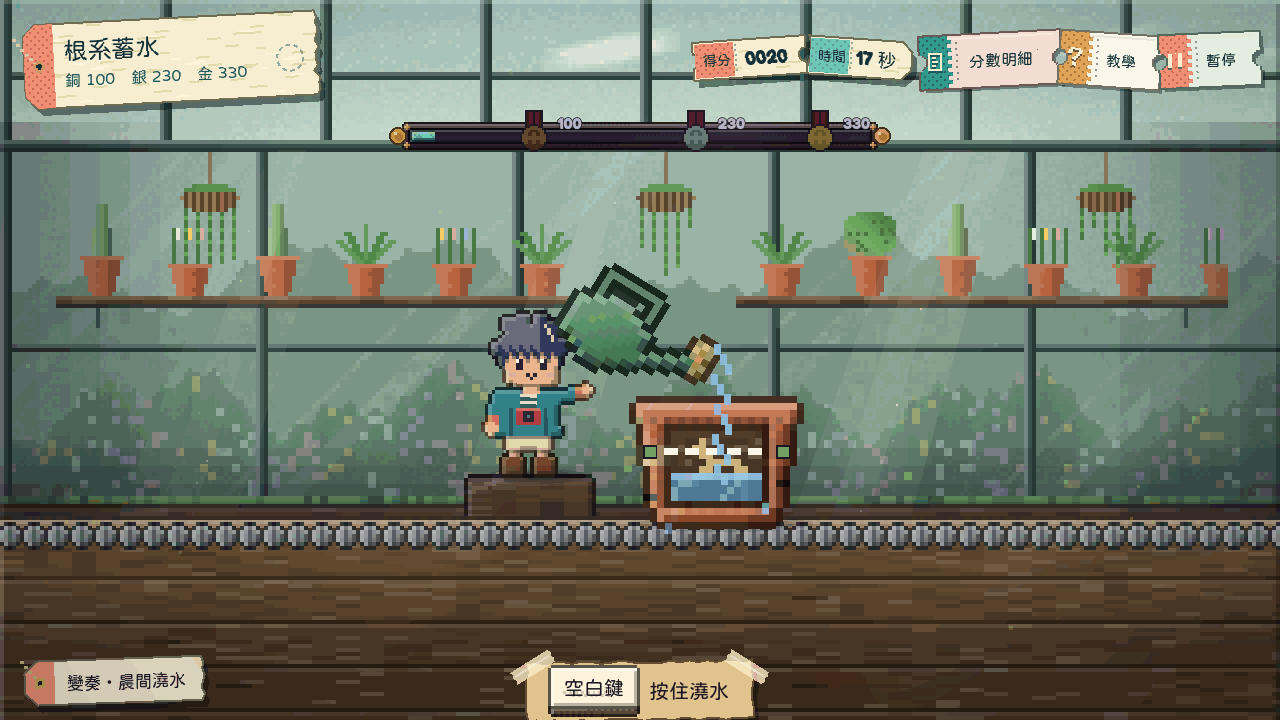
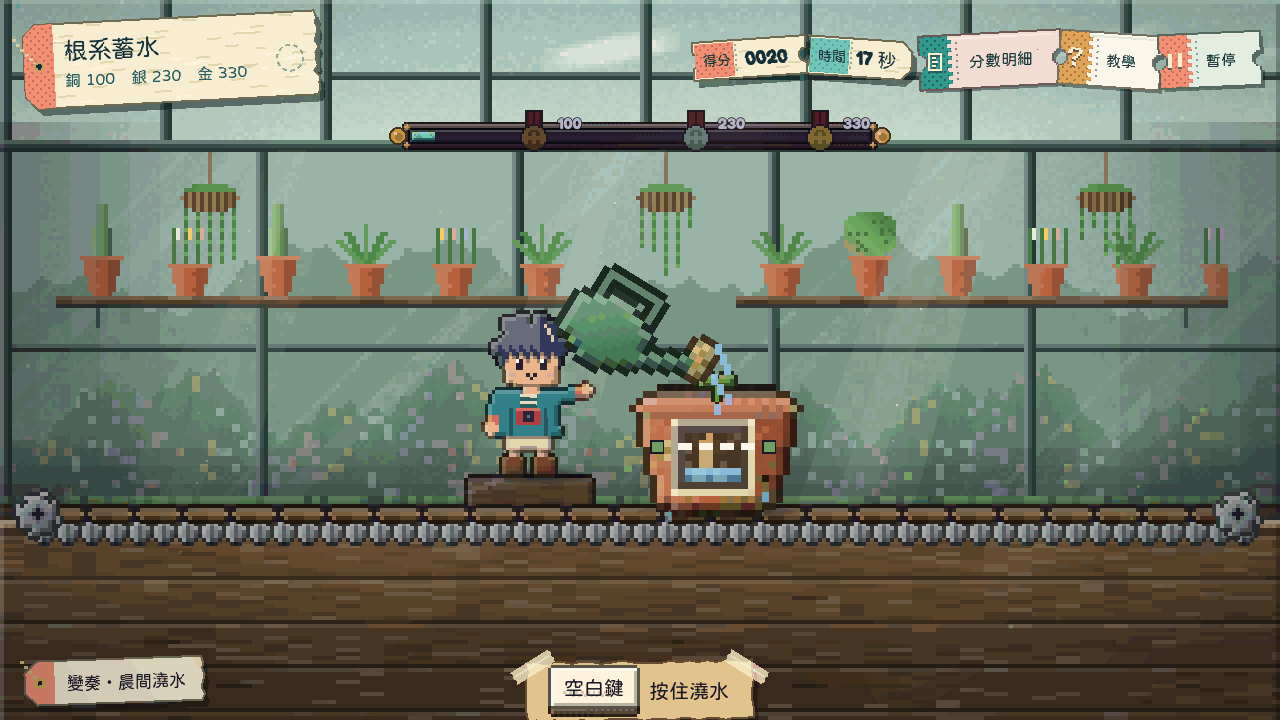
fix: shape the root water pots as rimmed terracotta with a glazed gauge and run them on a slatted conveyor (SG-98)

Changed region(s): [[0.0, 0.5194, 1.0, 0.7639]]

diff --git a/design/02-minigames/catalog.md b/design/02-minigames/catalog.md
@@ -1737,7 +1737,7 @@
 | 操作 | 空白鍵、Enter 或手把 A 鈕、按住畫面：按住澆水，放開停。 |
 | 普通目標 | 替幼苗澆到刻線，拿到銅牌 |
 | 取捨 | 早點放手穩穩拿「差一點」，或盯到最後一刻停在刻線上拚「剛剛好」的連續加分，但多按一下就會滿出來 |
-| 可見回饋 | 盆子側面是一片玻璃，看得到泥土和根；水從盆底往上把泥土染深，水面有一條亮線；盆上有一條粉筆刻線，兩端各伸出一片葉子小旗；停在刻線上跳出「剛剛好！」、根亮起來、盆裡冒出一株新芽，連續剛好再加分；澆不夠跳出「還渴！」；澆太多水從盆口滿出來流成一灘，主角滑一跤、頭下腳上坐進盆裡，只剩靴子露出盆口 |
+| 可見回饋 | 陶盆有捲邊盆口、陰影和一塊青苔，盆裡的泥土插著一株小苗；盆子正面有一條上釉的刻度窗，看得到泥土和根，水從盆底往上把泥土染深，水面有一條亮線；盆上有一條粉筆刻線，兩端各伸出一片葉子小旗；停在刻線上跳出「剛剛好！」、根亮起來、盆裡冒出一株新芽，連續剛好再加分；澆不夠跳出「還渴！」；澆太多水從盆口滿出來流成一灘，主角滑一跤、頭下腳上坐進盆裡，只剩靴子露出盆口 |
 | 重玩變化 | 晨間澆水、大盆日（大盆比較多）或漏水日（一開始就有漏水盆），每回合隨機一種；盆子停留時間越來越短、滑得越來越快，四分之一場後出現會漏水的盆，接近半場出現會突然長大的盆 |
 | 單人 | 玩家獨立完成主要操作；簡單AI是旁邊的小澆水壺，會先替最小的盆子點一點水。可暫停、重試及隨時離場。 |
 | 多人 | 兩人各拿一把水壺，輪流替同一排盆子澆水 |
@@ -1747,7 +1747,7 @@
 | 異空間 | 異空間的盆子會自己喝水，水位越降越快，要一直補到刻線 |
 | 輔助 | 刻線容許的範圍寬一點、盆子停在水壺下的時間長一點；輔助回合不發小惡魔拍貼 |
 | 原型檢查 | 不看說明，三秒內知道按住會澆水、水到刻線要放手 |
-| 修訂理由 | 2026-11-28 依「單純好玩」準則改寫：原案要夾放根節並切換儲水囊、在三次乾期間取捨，偏規劃與多按鈕，改為只按住一顆鍵澆水、水到刻線就放手的「根系蓄水」，名字裡的「根系」變成盆子玻璃側面看得到的根，「蓄水」變成泥土裡上升的水位。在票的概念上加了兩點讓它更好玩：①刻線差一點只拿少少的分，剛好停在線上才有連續加分，讓人想盯到最後一刻；②漏水盆要在離開前補水、長大盆會在澆到一半時突然變大讓水位掉下去，所以不能只靠固定按多久。與其他區的按住類小遊戲分開：這款看的是容器裡上升的水位，放手的時機決定一切。 |
+| 修訂理由 | 2026-11-28 依「單純好玩」準則改寫：原案要夾放根節並切換儲水囊、在三次乾期間取捨，偏規劃與多按鈕，改為只按住一顆鍵澆水、水到刻線就放手的「根系蓄水」，名字裡的「根系」變成盆子釉面刻度窗裡看得到的根，「蓄水」變成泥土裡上升的水位。在票的概念上加了兩點讓它更好玩：①刻線差一點只拿少少的分，剛好停在線上才有連續加分，讓人想盯到最後一刻；②漏水盆要在離開前補水、長大盆會在澆到一半時突然變大讓水位掉下去，所以不能只靠固定按多久。與其他區的按住類小遊戲分開：這款看的是容器裡上升的水位，放手的時機決定一切。 |
 | 稽核十問 | 十問皆為是：①按住澆水 ②盆子側面看得到水位和刻線 ③只用一顆鍵 ④倒數 2.4 秒內水壺自己把一盆小盆澆到刻線示範，開始時第一盆才剛滑進來、還沒有水，無強制教學 ⑤一回合 45 秒 ⑥盆子停留時間越來越短、滑得越來越快，後段出現會漏水與會突然長大的盆 ⑦澆太多水滿出來，主角踩到水滑一跤、頭下腳上坐進盆裡，只剩靴子露出盆口 ⑧單一分數，銅 100／銀 230／金 330 全程顯示 ⑨三種變奏：晨間澆水、大盆日、漏水日 ⑩旁觀者會喊「停停停！」。刻線兩端有葉子小旗，漏水盆有補丁和滴水，長大盆有一圈條紋，不只靠顏色；減少動態時水面不晃、水滴不落、滾輪不轉、跌進盆裡直接到位。尚未經玩家試玩驗證。 |
 
 ### game-082 葉舟搬家

diff --git a/pm/Snapland-small-game/[SG-98]實作根系蓄水.md b/pm/Snapland-small-game/[SG-98]實作根系蓄水.md
@@ -62,3 +62,23 @@
 ### 截圖
 
 ![主角澆太多水，水從盆口滿出來，他滑了一跤頭下腳上栽進盆裡，只剩靴子露出盆口](images/SG-98-root-tumble.png)
+
+# Commit-2
+
+## 內文
+
+第一版的盆子是一個方方正正的棕色盒子、正面挖了一大片玻璃窗，看起來像木箱不像陶盆；輸送帶只是一條灰色的鍊子。
+現在盆子是上寬下窄的陶盆：上面一圈圓圓的捲邊盆口，左邊受光、右邊有陰影，靠盆底的陰影那側長了一塊青苔，盆口上露出一點泥土，每一盆都插著一株小苗（還沒澆的時候有點黃、垂著，剛好澆到刻線就變綠長高，澆壞了就變褐色）。原本的大玻璃窗改成盆子正面一條上了米白色釉的刻度窗，水位和粉筆刻線就在窗裡，葉子小旗在窗的兩邊。工作台上的輸送帶改成一片片木條鋪在一排滾輪上，兩頭各有一個小齒輪，盆子移動時木條往前走、齒輪跟著轉（減少動態時不動）。水滴改成落在盆口的泥土上。設計目錄與教學頁的說明跟著改成刻度窗。
+在原生畫面看過澆水與滿出來栽進盆裡兩張，規則與分數沒有改動。
+
+### 測試結果
+
+| 項目 | 結果 |
+|---|---|
+| 根系蓄水規則 | 通過（只改畫面，規則與分數不變） |
+| 局部回歸 | 街機共用流程、場景規範通過 |
+| 設計與資料驗證 | 5 個範圍通過 |
+
+### 截圖
+
+![主角澆太多水滑倒，頭下腳上栽進捲邊陶盆裡，從釉面刻度窗看得到他泡在泥水裡的臉，只剩靴子露出盆口](images/SG-98-root-pot.png)
